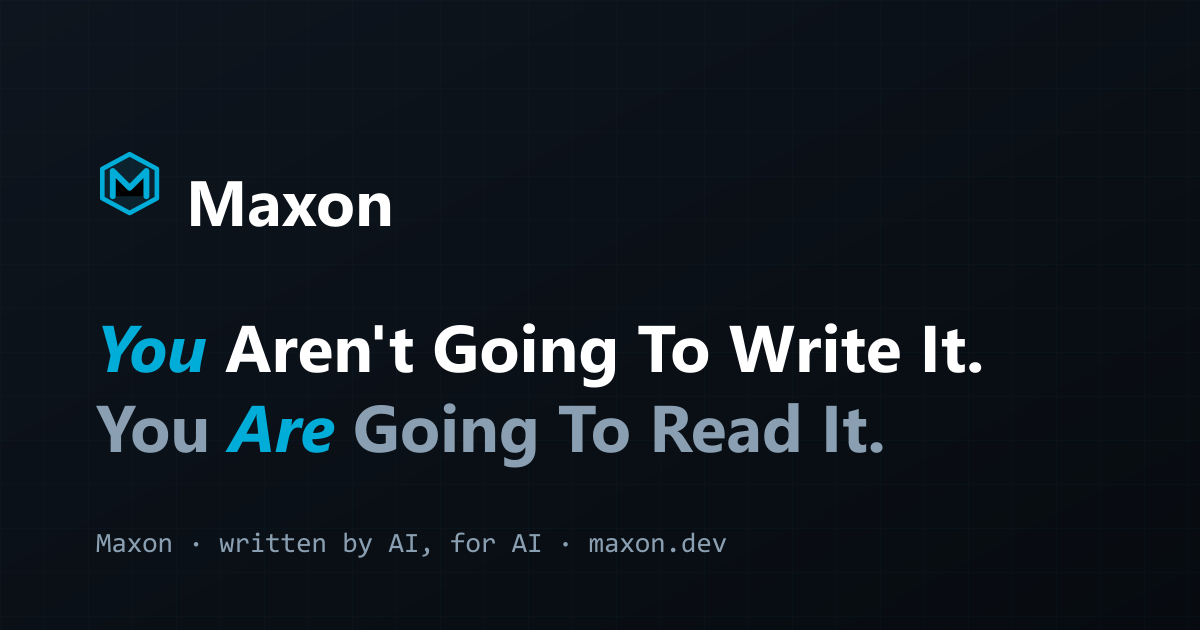
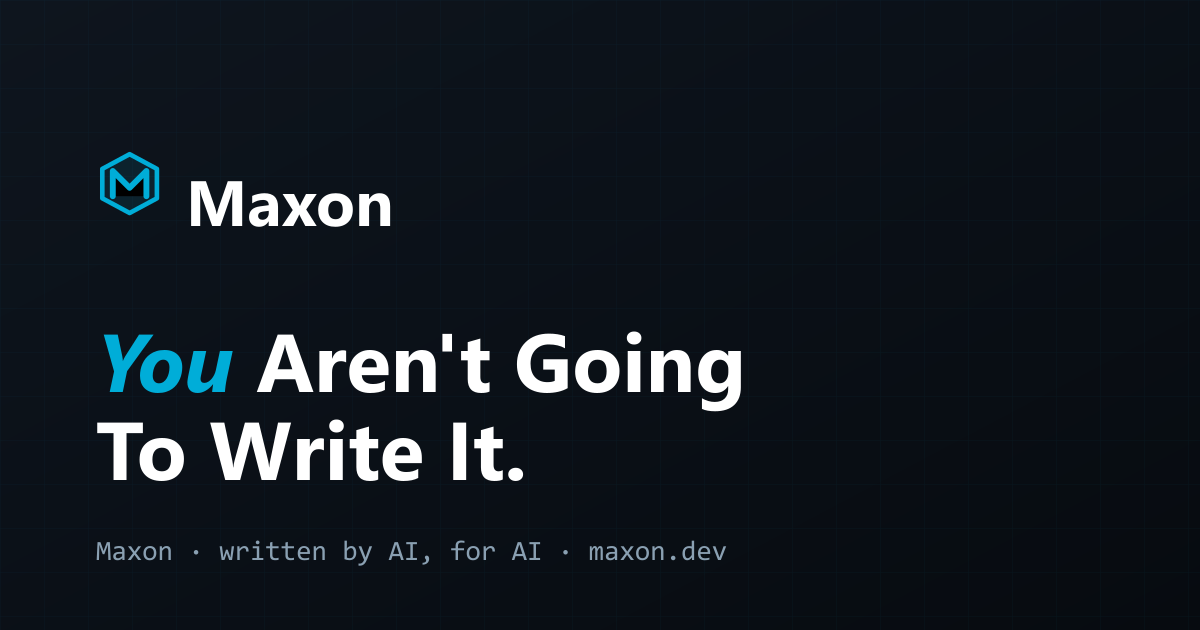
Add about + contributing pages, install and OG refinements

diff --git a/src/content/docs/docs/contributing.md b/src/content/docs/docs/contributing.md
@@ -1,0 +1,82 @@
+---
+title: Contributing
+description: How to contribute to Maxon — report bugs, improve the compiler and standard library, write docs and examples, or build something real in the language.
+sidebar:
+  order: 7
+---
+
+Maxon is free and open source, dual-licensed under MIT and Apache-2.0. It was written by AI,
+but it's built in the open — and contributions are welcome, whether that's a bug report, a
+patch to the compiler, a documentation fix, or a real program written in the language.
+
+Everything lives in one repository:
+[github.com/Stormalong/maxon](https://github.com/Stormalong/maxon).
+
+## Ways to contribute
+
+### Report a bug
+
+Found a miscompile, a crash, a confusing diagnostic, or a place where the docs and the
+compiler disagree? Open an issue on the
+[issue tracker](https://github.com/Stormalong/maxon/issues). A good report includes:
+
+- A minimal `.maxon` program that reproduces the problem.
+- What you expected to happen, and what actually happened (exact output or error code).
+- Your platform (Windows / Linux) and how you built the compiler.
+
+The smaller the reproduction, the faster it can be fixed — Maxon's whole philosophy is that
+code should be easy to read, and that applies to bug reports too.
+
+### Improve the compiler or standard library
+
+The compiler (a native x86-64 backend), the language server, and the standard library are all
+open. Patches that fix bugs, improve diagnostics, or extend the standard library are welcome.
+Open an issue first for anything non-trivial so the approach can be discussed before you invest
+the work, then send a pull request.
+
+### Improve the docs and examples
+
+Documentation and examples are some of the highest-leverage contributions, because a language
+designed to be *read* lives or dies on how well it's explained. Typo fixes, clearer
+explanations, and new [example programs](/examples/) are all valuable. Examples should be real,
+compilable `.maxon` files.
+
+### Write something in Maxon
+
+The most useful thing you can do is build something real. Writing actual programs surfaces the
+rough edges no test suite will, and shapes where the language goes next. Share what you build —
+report what felt awkward, what was missing, and what worked.
+
+## The development loop
+
+Maxon builds from source. See [Installation](/docs/getting-started/installation/) for the full
+prerequisites; the short version, once you have them:
+
+```bash
+git clone https://github.com/Stormalong/maxon.git
+cd maxon
+
+dotnet build maxon-sharp     # build the compiler -> bin/maxon
+bin/maxon spec-test          # run the full spec-test suite
+```
+
+On Windows, `buildall.bat` builds and tests the full toolchain — the C# compiler, the
+self-hosted compiler, and their spec tests — in one step.
+
+### Tests
+
+Maxon's tests are organized as **spec files**: each language feature has a single source of
+truth in the `specs/` directory that holds the feature's documentation *and* its executable
+test cases together. When you change behavior, update or add the relevant spec, and make sure
+`bin/maxon spec-test` passes before opening a pull request.
+
+## Pull requests
+
+- Open an issue first for anything beyond a small fix, so the design can be agreed on.
+- Keep changes focused — one logical change per pull request.
+- Make sure the compiler builds cleanly and `bin/maxon spec-test` passes.
+- Match the style of the surrounding code; Maxon favors explicit, readable code over clever or
+  terse code, in the compiler as much as in the language.
+
+By contributing, you agree that your contributions are dual-licensed under MIT and Apache-2.0,
+the same terms as the project.

diff --git a/src/content/docs/docs/about.md b/src/content/docs/docs/about.md
@@ -1,0 +1,57 @@
+---
+title: About
+description: Who makes Maxon, and how the language came to be.
+sidebar:
+  order: 8
+---
+
+Maxon is created and directed by **Eric Stern**.
+
+The split of labor is the same one the language is built around. The design is human: the
+philosophy that code should be optimized for the reader, the syntax, the type system, the
+decision to push constraints into types and to have no null — those are deliberate choices.
+The implementation is the AI's: the compiler, the standard library, the language server, and
+the documentation are written by AI coding agents working under that direction.
+
+Maxon exists to test an idea — that if AI is going to write most of the code, a language should
+be designed for that, optimizing for the reader rather than the typist — and to find out what
+that actually feels like by building a complete, working toolchain on the premise.
+
+## How it came together
+
+Maxon began in November 2025. Through the period below, Eric was its sole developer, directing
+the AI agents that wrote the code. Getting to a self-hosted language meant building a series of
+bootstrap compilers first — in C++, then Zig, then C# — each one able to compile Maxon while
+the language itself was still taking shape.
+
+- **November 2025 — first light.** The project starts: lexer, parser, a working compiler, and
+  a language server. An early experiment with an LLVM backend is dropped in favor of writing a
+  custom native x86-64 code generator from scratch. This is the **C++ bootstrap compiler** —
+  the first thing that could turn Maxon source into a native executable.
+- **Late November 2025 — going native.** The C++ compiler's custom backend lands, emitting real
+  PE and ELF executables with no external dependencies. A SIMD lexer and parser and the first
+  optimization passes follow within days.
+- **December 2025 — the standard library, and a Zig bootstrap.** The standard library fills
+  out and the language server is embedded into the compiler. A second bootstrap compiler,
+  written in **Zig** (`maxon-bin`), is started mid-month and becomes the main build before the
+  year is out.
+- **December 2025 — the self-hosted compiler begins.** In parallel, work starts on writing the
+  Maxon compiler *in Maxon*. It builds for the first time within a week.
+- **January 2026 — the C# bootstrap.** A third bootstrap is written in **C#**
+  (`maxon-sharp`). Built from the same language spec but along an independent path, it becomes
+  the reference the self-hosted compiler is continuously tested for parity against — two
+  compilers agreeing on a program's behavior is the bar. It's the compiler Maxon ships with
+  today, while the self-hosted one matures.
+- **March 2026 — retiring Zig.** With the C# reference and the self-hosted compiler both
+  advancing, the Zig bootstrap has done its job and is removed.
+- **Through 2026 — toward self-hosting.** The self-hosted compiler advances feature by
+  feature — real strings and interpolation, enums and unions, generics, ranges and iterators —
+  steadily closing the gap with the C# reference.
+- **Next — full self-hosting.** Maxon compiling Maxon, end to end. Not quite there yet — but
+  close.
+
+## Open source
+
+The project is open source under MIT and Apache-2.0, and contributions are
+[welcome](/docs/contributing/). You can find the source and reach the author on
+[GitHub](https://github.com/Stormalong).

diff --git a/src/content/docs/docs/getting-started/installation.md b/src/content/docs/docs/getting-started/installation.md
@@ -1,40 +1,37 @@
 ---
 title: Installation
-description: Build the Maxon compiler from source on Windows or Linux.
+description: Build the Maxon compiler from source with the .NET SDK.
 sidebar:
   order: 2
 ---
 
-Maxon v1.0 is installed by building the compiler from source. There is no prebuilt binary or
+Maxon is installed by building the compiler from source. There is no prebuilt binary or
 installer yet.
 
-For a full walk-through — prerequisites, per-OS steps, the VS Code extension, and verifying
-your build — see the dedicated [Install page](/install/).
+For a full walk-through — prerequisites, the VS Code extension, and verifying your build — see
+the dedicated [Install page](/install/).
 
 ## Quick version
 
-Once you have the prerequisites installed and the repository cloned:
+Once you have the prerequisites installed:
 
 ```bash
-make all                              # build the compiler, LSP, and extension
-./bin/maxon examples/basic.maxon      # compile and run a program
-make test                             # run the test suite
+git clone https://github.com/Stormalong/maxon.git
+cd maxon
+
+dotnet build maxon-sharp               # build the compiler -> bin/maxon
+bin/maxon build examples/basic.maxon   # compile and run a program
+bin/maxon spec-test                    # run the spec-test suite
 ```
 
-On Windows, run these commands in **Git Bash** (not PowerShell or cmd).
+On Windows, `buildall.bat` builds and tests the full toolchain — the C# compiler, the
+self-hosted compiler, and their spec tests — in one step.
 
 ## Prerequisites at a glance
 
-**Windows**
-
-- Git for Windows (includes Git Bash)
-- Visual Studio 2022 with the C++ development tools
-- CMake 3.13+
-- Ninja
-
-**Linux**
-
-- The provided dev container (recommended), or
-- `build-essential`, `cmake`, `ninja-build`, and Node.js 20+
+- [.NET 10 SDK](https://dotnet.microsoft.com/download) — the compiler (`maxon-sharp`) targets
+  `net10.0`.
+- Git
+- Node.js 20+ — only needed to build the VS Code extension.
 
 See the [Install page](/install/) for the complete instructions and editor setup.

diff --git a/src/content/docs/docs/getting-started/first-program.md b/src/content/docs/docs/getting-started/first-program.md
@@ -21,7 +21,7 @@ end 'main'
 The return value becomes the process exit code. Compile and run it:
 
 ```bash
-./bin/maxon hello.maxon
+bin/maxon build hello.maxon
 ```
 
 ## Adding a ranged type